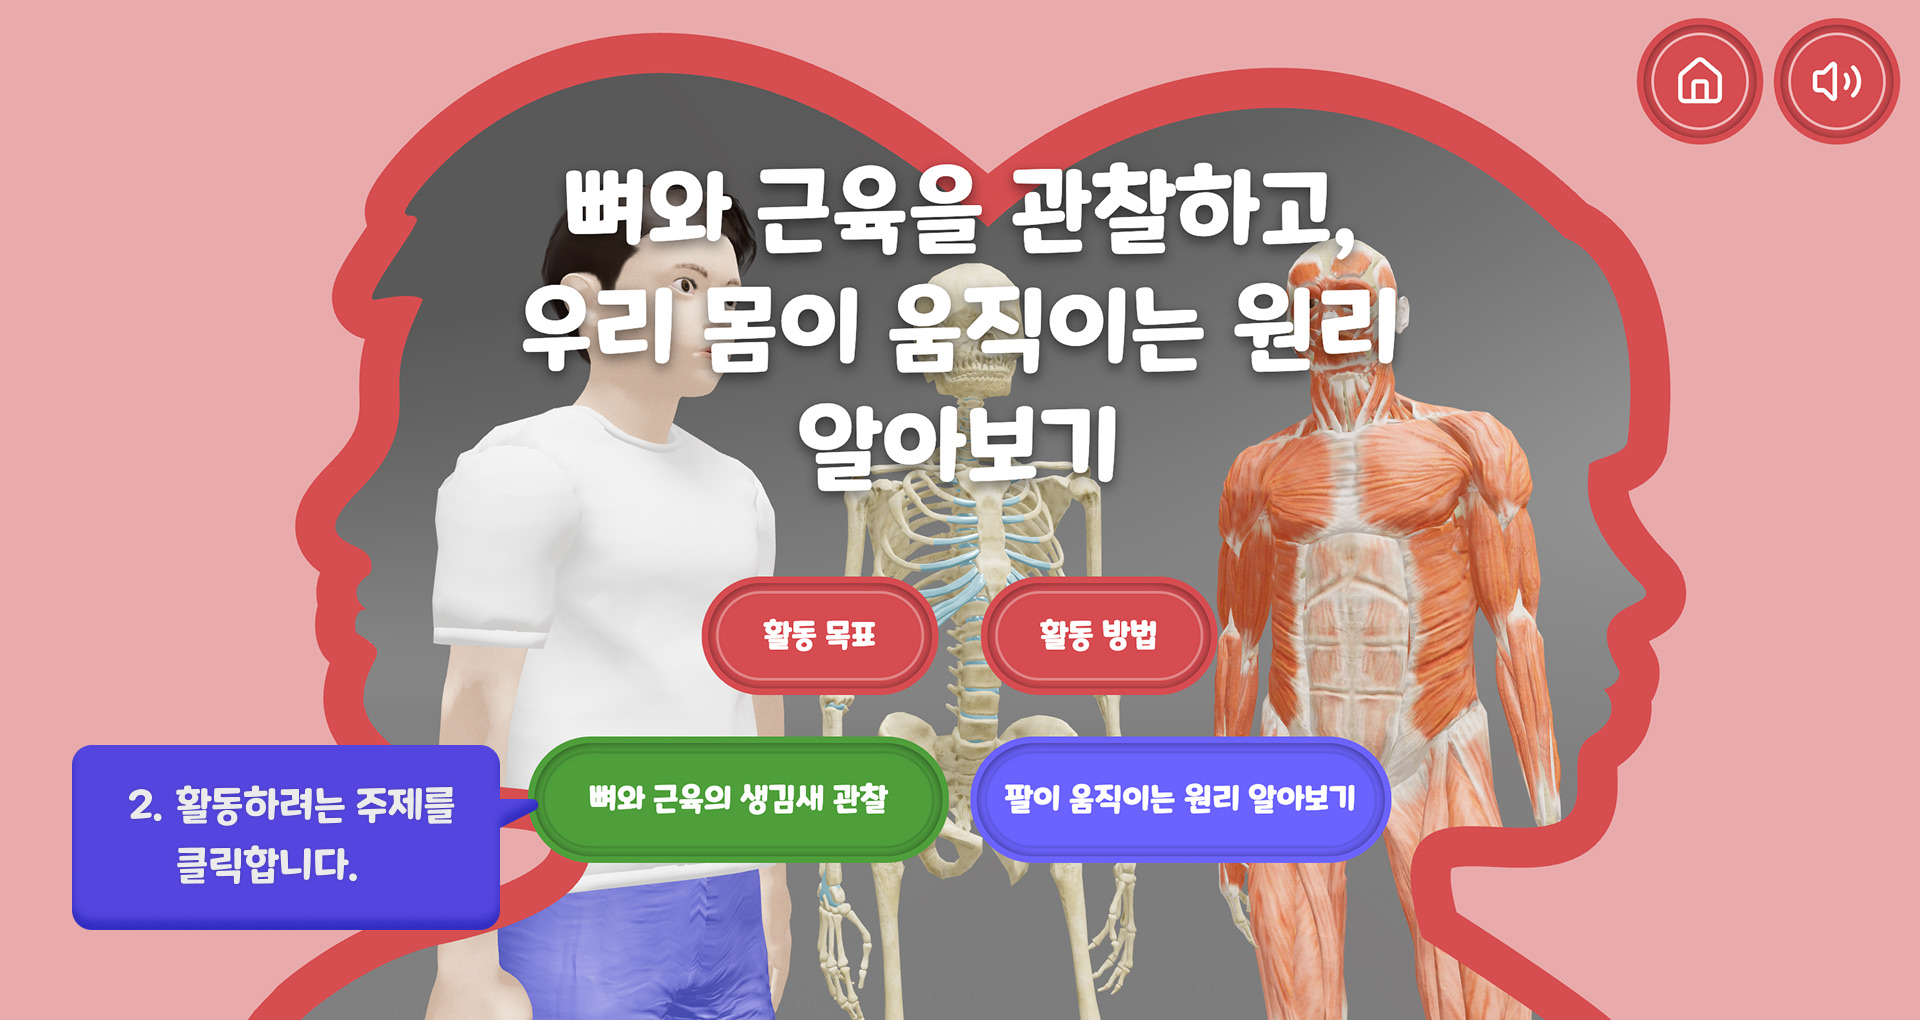
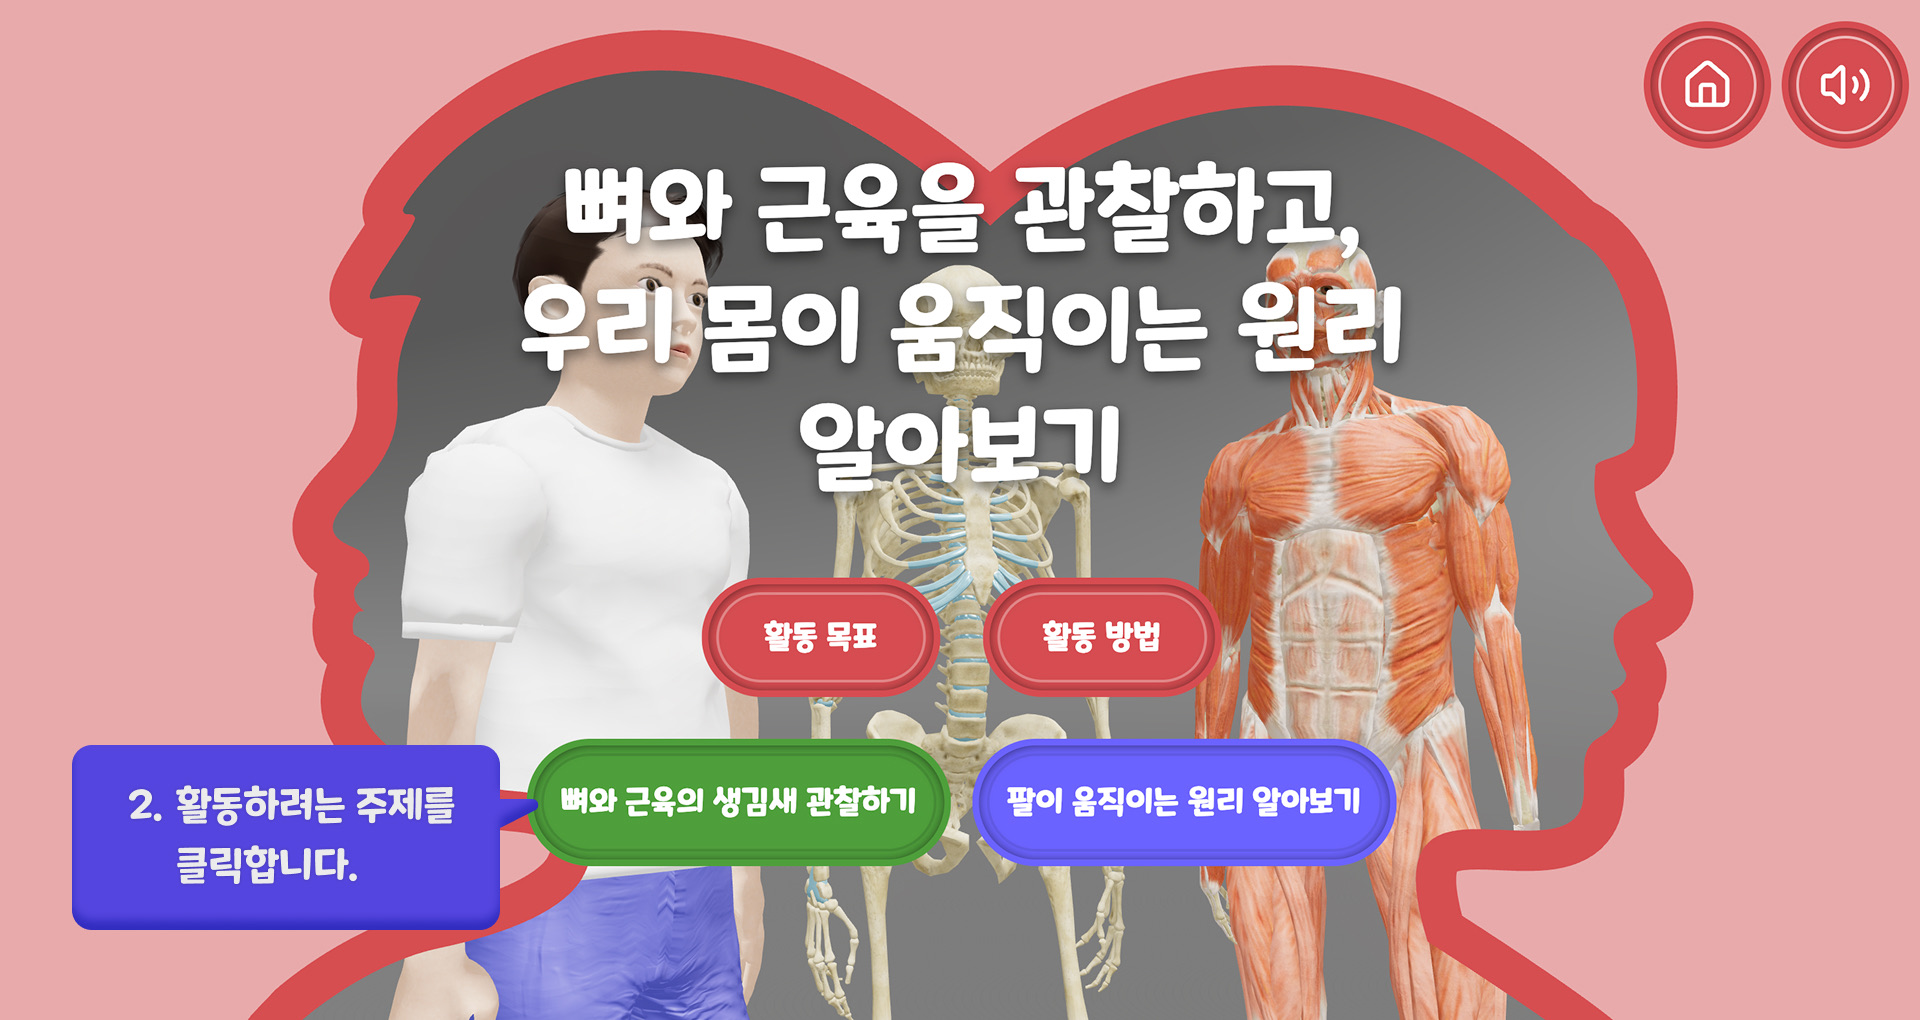
update 5-1-4

diff --git a/client/src/pages/5-1-4.tsx b/client/src/pages/5-1-4.tsx
@@ -455,7 +455,7 @@ export default function Page() {
 
   const modeButtons = useMemo(
     () => [
-      { mode: 'bones' as const, label: '뼈와 근육의 생김새 관찰', color: '#f5600a', hoverColor: '#fc835b' },
+      { mode: 'bones' as const, label: '뼈와 근육의 생김새 관찰하기', color: '#f5600a', hoverColor: '#fc835b' },
       { mode: 'arm' as const, label: '팔이 움직이는 원리 알아보기', color: '#2196F3', hoverColor: '#42A5F5' },
     ],
     [],
